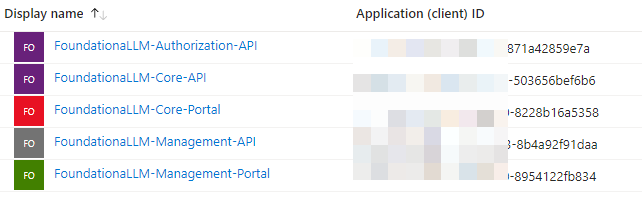
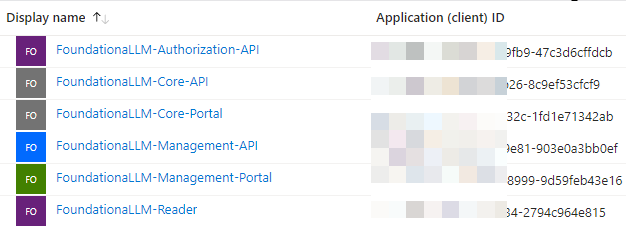
Updated Docs for QS deployment for 0.8.3 and 0.8.4

diff --git a/docs/deployment/deployment-quick-start.md b/docs/deployment/deployment-quick-start.md
@@ -57,18 +57,20 @@ If you are upgrading from a previous version, like `0.5.0`, please refer to the 
     git checkout release/0.8.3
     ```
 
-3. **For release 0.7.0+:** Run the following script to install the deployment utilities, including `AzCopy`, locally.
+3. Run the following script to install the deployment utilities, including `AzCopy`, locally.
 
     ```cmd
-    ./scripts/bootstrap.ps1
+    cd .\deploy\common\scripts
+    .\Get-AzCopy.ps1
     ```
 
-4. Run the following commands to log into Azure CLI, Azure Developer CLI and AzCopy:
+4. Run the following commands to log into Azure CLI, Azure Developer CLI and AzCopy (the instance you just installed above):
 
     ```azurecli
-    az login            # Log into Azure CLI
-    azd auth login      # Log into Azure Developer CLI
-    azcopy login        # Log into AzCopy
+    cd .\deploy\quick-start
+    az login                            # Log into Azure CLI
+    azd auth login                      # Log into AZD
+    ..\common\tools\azcopy\azcopy login # Log into AzCopy
     ```
 
 5. Set up an `azd` environment targeting your Azure subscription and desired deployment region:
@@ -80,49 +82,12 @@ If you are upgrading from a previous version, like `0.5.0`, please refer to the 
 
 6. Run the following commands to set the appropriate application registration settings for OIDC authentication.
 
-    ```text
-    azd env set ENTRA_AUTH_API_INSTANCE <Auth API Instance>
-    azd env set ENTRA_AUTH_API_CLIENT_ID <Auth API Client Id>
-    azd env set ENTRA_AUTH_API_SCOPES <Auth API Scope>
-    azd env set ENTRA_AUTH_API_TENANT_ID <Auth API Tenant ID>
-
-    azd env set ADMIN_GROUP_OBJECT_ID <Admin Group Object Id>
-
-    azd env set ENTRA_CHAT_UI_CLIENT_ID <Chat UI Client Id>
-    azd env set ENTRA_CHAT_UI_SCOPES <Chat UI Scope>
-    azd env set ENTRA_CHAT_UI_TENANT_ID <Chat UI Tenant ID>
-
-    azd env set ENTRA_CORE_API_CLIENT_ID <Core API Client Id>
-    azd env set ENTRA_CORE_API_SCOPES <Core API Scope>
-    azd env set ENTRA_CORE_API_TENANT_ID <Core API Tenant ID>
-
-    azd env set ENTRA_MANAGEMENT_API_CLIENT_ID <Management API Client Id>
-    azd env set ENTRA_MANAGEMENT_API_SCOPES <Management API Scope>
-    azd env set ENTRA_MANAGEMENT_API_TENANT_ID <Management API Tenant ID>
-
-    azd env set ENTRA_MANAGEMENT_UI_CLIENT_ID <Management UI Client Id>
-    azd env set ENTRA_MANAGEMENT_UI_SCOPES <Management UI Scope>
-    azd env set ENTRA_MANAGEMENT_UI_TENANT_ID <Management UI Tenant ID>
-
-    azd env set FOUNDATIONALLM_INSTANCE_ID <guid>
+    ```cmd
+    cd .\deploy\quick-start
+    ..\common\scripts\Set-AzdEnvEntra.ps1
     ```
-> [!NOTE]
-> You need to manually generate a GUID for `FOUNDATIONALLM_INSTANCE_ID`.
-### In Bash:
-```bash
-  uuidgen
-```
 
-### In PowerShell:
-
-```powershell
-  [guid]::NewGuid().ToString()
-```
-
-> [!IMPORTANT]
-> The ADMIN_GROUP_OBJECT_ID in the Entra ID Groups has to be of type `security` NOT `Microsoft 365` and you need to at least add yourself to the group and other members that need to be admins.
-
-1. **Optional**: Bring Your Own Azure OpenAI Instance
+## Optional: Bring Your Own Azure OpenAI Instance
 
     If you have an existing Azure OpenAI instance, you can use it by setting the following environment variables:
 
@@ -134,7 +99,7 @@ If you are upgrading from a previous version, like `0.5.0`, please refer to the 
 > [!IMPORTANT]
 > Deploying with `Bring Your Own Azure OpenAI`, customers need to make sure that the relevant Managed Identities (LangChain API, Semantic Kernel API, and Gateway API) are assigned the `Open AI reader role` on the Azure OpenAI account object.
 
-2. Deploy the solution
+7. Deploy the solution
 
     After setting the OIDC-specific settings in the AZD environment above, run `azd up` in the same folder location to provision the infrastructure, update the App Configuration entries, deploy the API and web app services, and import files into the storage account.
 
@@ -144,25 +109,23 @@ If you are upgrading from a previous version, like `0.5.0`, please refer to the 
 
 ### Running script to allow MS Graph access through Role Permissions
 
-After the deployment is complete, you will need to run the following script to allow MS Graph access through Role Permissions. [Role Permissions Script](https://github.com/solliancenet/foundationallm/blob/main/deploy/common/scripts/Assign-MSGraph-Roles.ps1)
-This script will need to be executed twice for the principal IDs of the following:
-- Core API Managed Identity
-- Management API Managed Identity
-
-These can be found in the Azure portal in the main resource group for the deployment.
+After the deployment is complete, you will need to run the following script to allow MS Graph access through Role Permissions. (See below)
 
 > [!IMPORTANT]
 > The user running the script will need to have the appropriate permissions to assign roles to the managed identities. The user will need to be a `Global Administrator` or have the `Privileged Role Administrator` role in the Entra ID tenant.
 
-The syntax for running the script from the `deploy\common\scripts` folder is:
+The syntax for running the script from the `deploy\quick-start\common\scripts` folder is:
 
 ```pwsh
-.\Assign-MSGraph-Roles.ps1 -principalId <GUID of the Core API Managed Identity Principal ID>
-.\Assign-MSGraph-Roles.ps1 -principalId <GUID of the Management API Managed Identity Principal ID>
+    cd .\deploy\quick-start
+    ..\common\scripts\Set-FllmGraphRoles.ps1 -resourceGroupName rg-<azd env name>
 ```
+Finally, you will need to update the Authorization Callbacks in the App Registrations created in the Entra ID tenant by running the following script:
 
-> [!IMPORTANT]
-> For this release, you will need to restart the `CORE API` container and the `MANAGEMENT API` container in the resource group to allow the changes to take effect.
+```pwsh
+    cd .\deploy\quick-start
+    ..\common\scripts\Update-OAuthCallbackUris.ps1
+```
 
 # Teardown
 

diff --git a/docs/deployment/authentication-authorization/index.md b/docs/deployment/authentication-authorization/index.md
@@ -4,24 +4,21 @@ FoundationaLLM uses the [Microsoft Entra ID](https://learn.microsoft.com/entra/f
 
 ## Microsoft Entra ID
 
-Starting `release 0.8.0` there are 2 options of completing the app registrations for the 5 apps required for FoundationaLLM. Option #1 is to run a script that will register all 5 applications for you. Option #2 is to manually register the 5 applications. The steps for both options are below.
+Starting `release 0.8.0` there are 2 options of completing the app registrations for the 6 apps required for FoundationaLLM. Option #1 is to run a script that will register all 6 applications for you. Option #2 is to manually register the 6 applications. The steps for both options are below.
 
-## Option #1 - Run the script to register all 5 applications
-The script is available in the `\deploy\common\scripts\` folder. The script is called `Create-FllmEntraIdApps.ps1`. The script will register the 5 required applications in the Entra ID tenant that you are logged into.
+## Option #1 - Run the script to register all 6 applications
+The script is available in the `\deploy\common\scripts\` folder. The script is called `Create-FllmEntraIdApps.ps1`. The script will register the 6 required applications in the Entra ID tenant that you are logged into.
 
 ![Entra ID app registration script](../media/EntraIDAppsCreation.png)
 
-After the completion of the script execution, you will see the 5 applications registered in the Entra ID tenant under `App registrations`
+After the completion of the script execution, you will see the 6 applications registered in the Entra ID tenant under `App registrations`
 
 ![Entra ID registered apps in Portal](../media/EntraIDRegisteredAppsPortal.png)
 
-> [!IMPORTANT]
-> Make sure to copy and save the Application (Client) ID of all 5 applications in a text editor as you will need them in the next steps.
-
-## Option 2 - Manually registering the 5 applications
+## Option 2 - Manually registering the 6 applications
 
 > [!IMPORTANT]
-> The following steps are to set up authentication and authorization for the solution. You will need to create app registrations in the Entra ID tenant in the Azure portal manually if you choose not to run the automatic script for any reason.  There are currently **five** app registrations required for the solution as listed below.  After you complete the 5 app registrations, you will need to finish the deployment process of the solution and revisit these app registrations to fill in some missing values that are generated during the deployment itself.
+> The following steps are to set up authentication and authorization for the solution. You will need to create app registrations in the Entra ID tenant in the Azure portal manually if you choose not to run the automatic script for any reason.  There are currently **five** app registrations required for the solution as listed below.  After you complete the 6 app registrations, you will need to finish the deployment process of the solution and revisit these app registrations to fill in some missing values that are generated during the deployment itself.
 
 ### Steps to perform before the deployment
 - [Core API and user portal authentication pre-deployment - Microsoft Entra ID](core-authentication-setup-entra.md)
